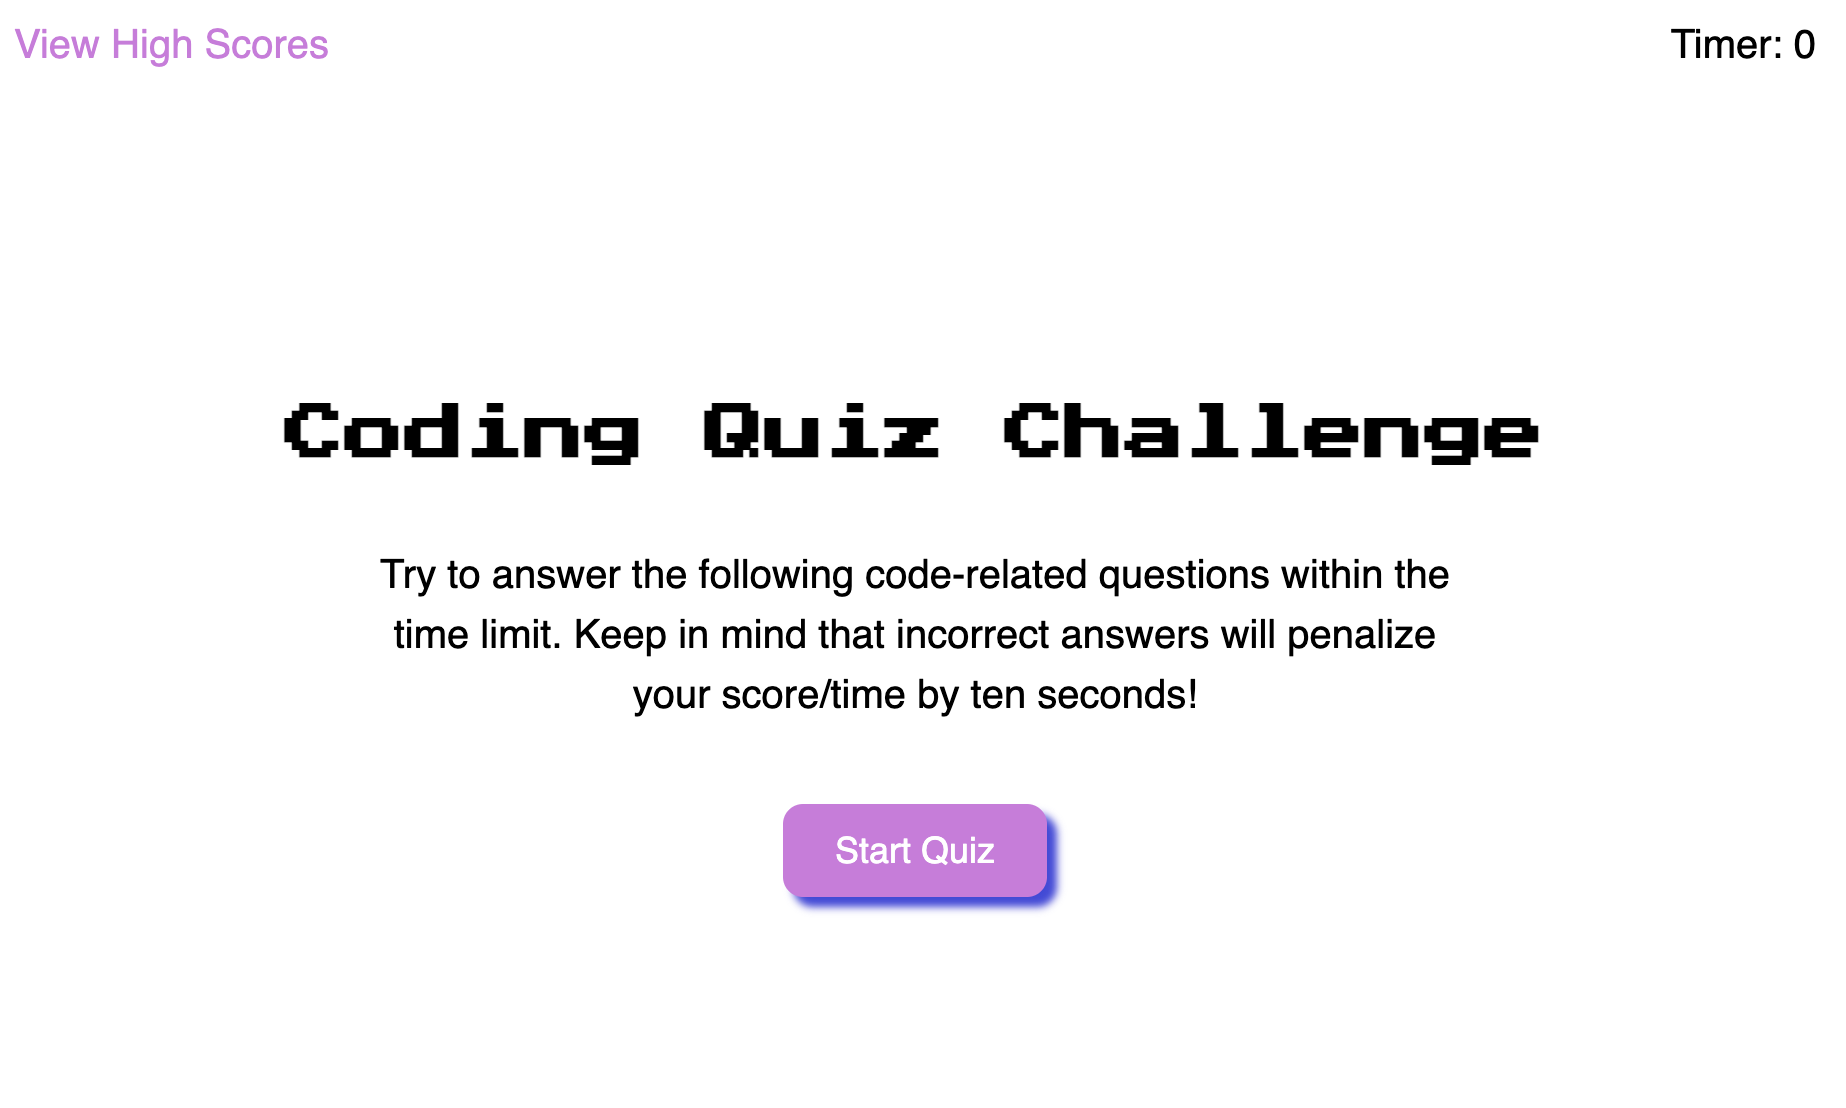
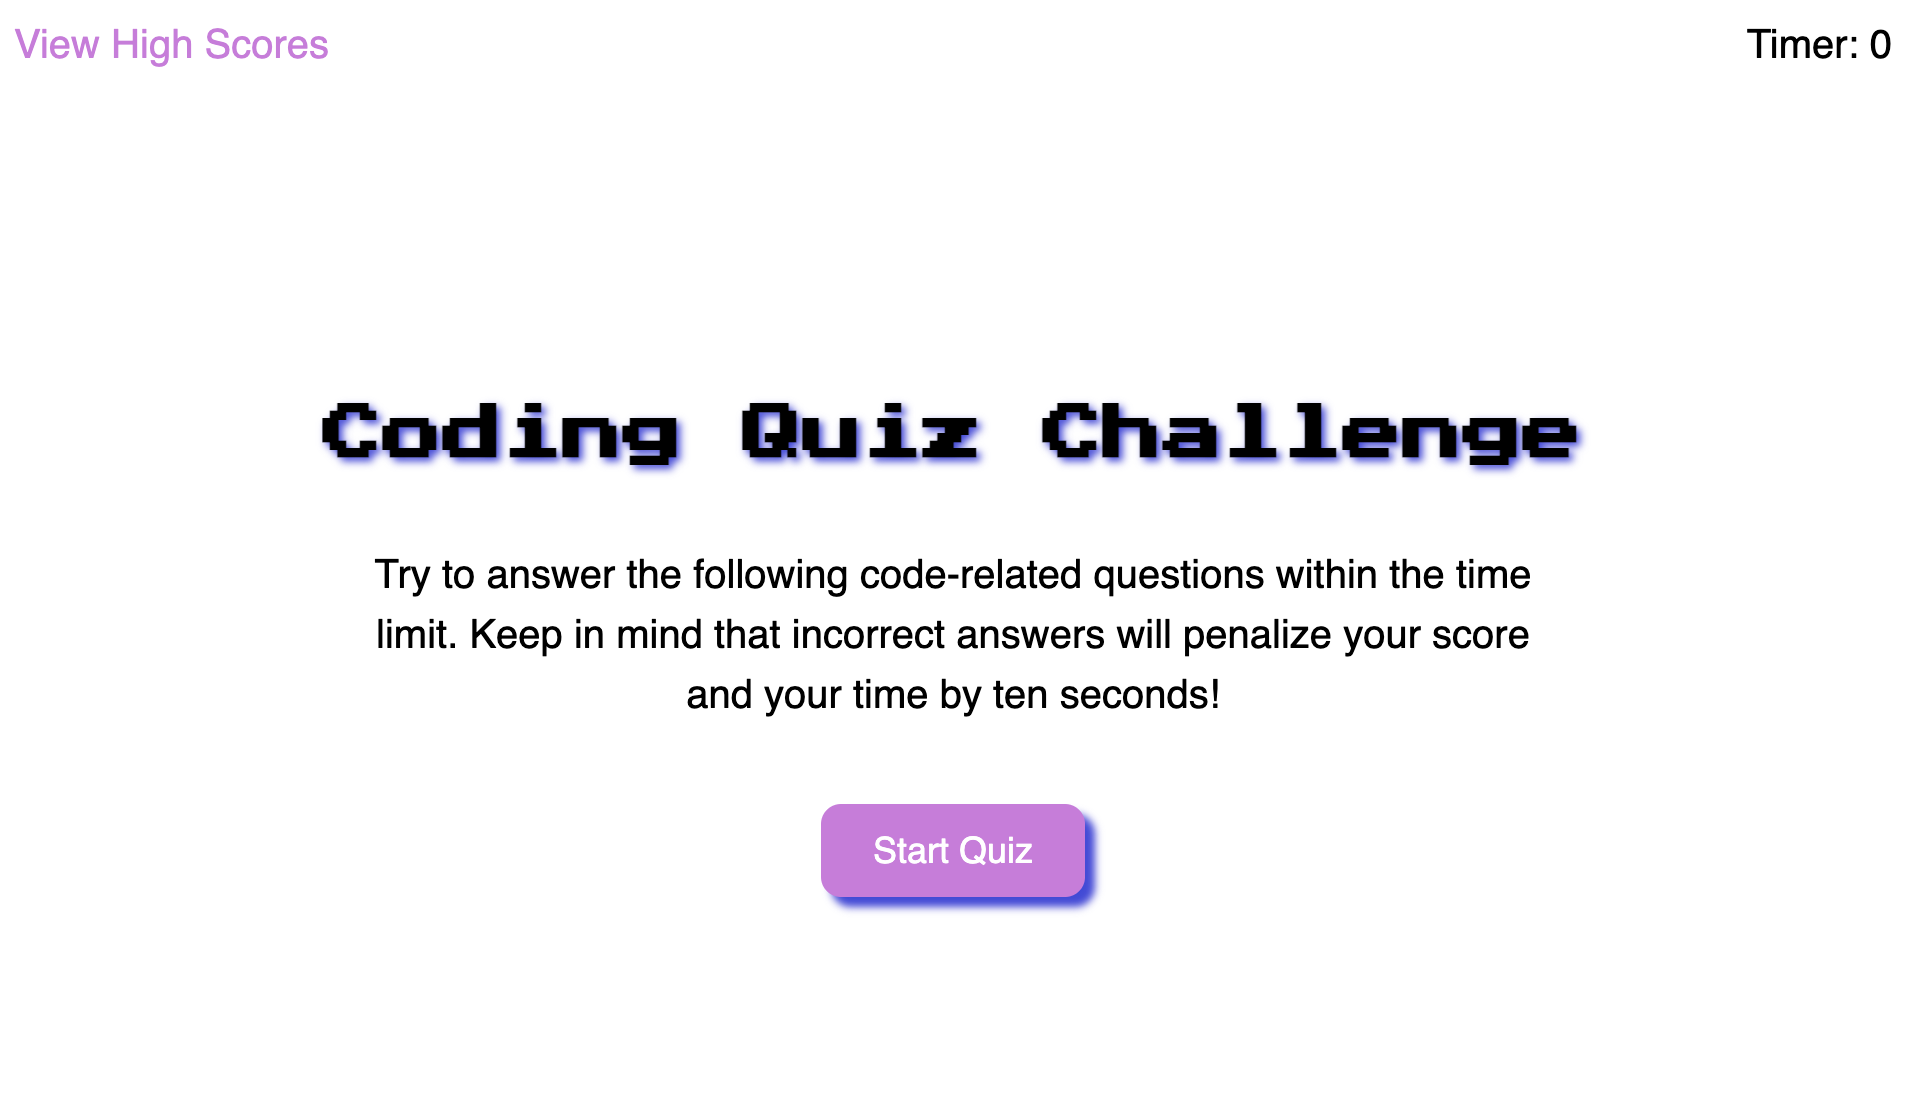
Updated css,  readme, and screenshot.

diff --git a/assets/js/script.js b/assets/js/script.js
@@ -31,7 +31,6 @@ startButton.addEventListener("click", function () {
     startTimer(); //this function below starts the timer
 });
 
-
 // put quiztime in global scope because we use it in multiple functions. in here, setInterval function changes time. howTimerWorks later clears the interval quiztime to zero and stops.
 var quiztime;
 // Start the timer in upper right corner after hitting start button
@@ -120,13 +119,14 @@ function addingAnswerButtons(answerPlaceholder) {
     answerButton.textContent = answerPlaceholder;
     answerButton.classList.add("multiple-choice-btn");
     answerLi.appendChild(answerButton);
-    answerButton.addEventListener("click", function () {  
+    answerButton.addEventListener("click", function () {
         checkAnswer(answerButton.textContent);
         // wait a sec so user can see checkAnswer result
         setTimeout(function () {
-            if (timeLeft >0) {
-            moveToNextQuestion(); }
-            else {gameOver();}
+            if (timeLeft > 0) {
+                moveToNextQuestion();
+            }
+            else { gameOver(); }
         }, 1000);
     });
 };
@@ -138,7 +138,7 @@ function checkAnswer(answerplaceholder) {
         correctVsIncorrect.textContent = "Correct! You gained 10 seconds";
         score++;
         timeLeft += 10;
-    // otherwise, if they don't match
+        // otherwise, if they don't match
     } else {
         correctVsIncorrect.textContent = "Incorrect! You lost 10 seconds!"
         timeLeft -= 10;
@@ -151,7 +151,7 @@ function moveToNextQuestion() {
     // if say theres 5 questions we've reached and that matches the length of 5 then display end page which shows results
     if (questionIndex === questionsList.length) {
         endPage();
-    // otherwise display the next question and whether they got it correct or incorrect which displays after checkanswer
+        // otherwise display the next question and whether they got it correct or incorrect which displays after checkanswer
     } else {
         displayNextQuestion(questionIndex, correctVsIncorrect);
     }
@@ -171,8 +171,8 @@ function endPage() {
     highScoresContainer.style.display = "none";
     endContainer.style.display = "block";
 
-    // I should add a percent of the length here instead of 2.
-    if (score > 2) { 
+    // Could use percent instead of 2
+    if (score > 2) {
         endResult.textContent = "Your score is " + score + " correct out of " + questionsList.length + "! You passed!";
     }
     else {
@@ -191,34 +191,34 @@ function gameOver() {
 // If we want to apply this function to multiple buttons throughout the quiz they will each need their own class and event listener. As they are in different divs and locations on the html.
 highScoresPageRestartButton.addEventListener("click", restartNow);
 function restartNow() {
-        startContainer.style.display = "none";
-        endContainer.style.display = "none";
-        highScoresContainer.style.display = "none";
-        questionContainer.style.display = "block";
-        correctVsIncorrect.style.display = "block";
-        // reset all our global variables
-        questionIndex = 0;
-        timeLeft = 35;
-        score = 0;
-        initialsInput.value="";
-        // display the questions and start the timer
-        displayNextQuestion(questionIndex, correctVsIncorrect);
-        startTimer();
-    }
+    startContainer.style.display = "none";
+    endContainer.style.display = "none";
+    highScoresContainer.style.display = "none";
+    questionContainer.style.display = "block";
+    correctVsIncorrect.style.display = "block";
+    // reset all our global variables
+    questionIndex = 0;
+    timeLeft = 35;
+    score = 0;
+    initialsInput.value = "";
+    // display the questions and start the timer
+    displayNextQuestion(questionIndex, correctVsIncorrect);
+    startTimer();
+}
 
 
 // added to both submit button and viewhighscores link
 viewHighScores.addEventListener("click", displayHighScores);
 function displayHighScores() {
-        startContainer.style.display = "none";
-        endContainer.style.display = "none";
-        questionContainer.style.display = "none";
-        highScoresContainer.style.display = "block";
-    };
+    startContainer.style.display = "none";
+    endContainer.style.display = "none";
+    questionContainer.style.display = "none";
+    highScoresContainer.style.display = "block";
+};
 
 
 // added to submit button eventlistener
-function appendHighScoresToHTML (arrayInitials, arrayScore) {
+function appendHighScoresToHTML(arrayInitials, arrayScore) {
     // Create score item li, and add class, which will house the initials + the score
     var initialsScoreLi = document.createElement("li");
     initialsScoreLi.classList.add("initialsscore-li");
@@ -230,60 +230,59 @@ function appendHighScoresToHTML (arrayInitials, arrayScore) {
     initialsScoreP.innerText = arrayInitials + " " + arrayScore;
     // if it does not equal nothing, append an item as we don't want empty items
     initialsScoreLi.appendChild(initialsScoreP); //attached p to li
-        //attach li to ul
+    //attach li to ul
     highScoresUlList.appendChild(initialsScoreLi);
 }
 
 function forLoopInitialsScore() {
     for (var i = 0; i < userAndScoreArray.length; i++) {
-    var arrayInitials = userAndScoreArray[i].initials;
-    var arrayScore = userAndScoreArray[i].score;
-    appendHighScoresToHTML(arrayInitials, arrayScore);
-}
+        var arrayInitials = userAndScoreArray[i].initials;
+        var arrayScore = userAndScoreArray[i].score;
+        appendHighScoresToHTML(arrayInitials, arrayScore);
+    }
 }
 
-
+// Start with an empty array and push initials and scores data
 var userAndScoreArray = [];
-function appendHighScoresToArray () {
+function appendHighScoresToArray() {
     var myObj = {
-        "initials" : initialsInput.value,    
-        "score" : score  
-      };
+        "initials": initialsInput.value,
+        "score": score
+    };
     userAndScoreArray.push(myObj);
 
 }
 
+// order from highest to lowest
+function orderHighScores(property) {
+    //json sort by property of object
+    return function (a, b) {
+        if (a[property] < b[property])
+            return 1;
+        else if (a[property] > b[property])
+            return -1;
 
-function orderHighScores (property) {
-// for loop all scores and order highest to lowest
-//https://developer.mozilla.org/en-US/docs/Web/JavaScript/Reference/Global_Objects/Array/sort
-//json sort by property of object
-return function(a,b){  
-    if(a[property] < b[property])  
-       return 1;  
-    else if(a[property] > b[property])  
-       return -1;  
-
-    return 0;  
- }  
+        return 0;
+    }
 }
 
+// when initials are submitted, go to high scores page and add score
 submitInitialsButton.addEventListener("click", appendAndDisplay);
-
-function appendAndDisplay () {
-    if (initialsInput.value !== "") { 
-    clearAllHighScores();
-    appendHighScoresToArray();
-    userAndScoreArray.sort(orderHighScores("score")); 
-    forLoopInitialsScore();
-    displayHighScores();
+function appendAndDisplay() {
+    if (initialsInput.value !== "") {
+        clearAllHighScores();
+        appendHighScoresToArray();
+        userAndScoreArray.sort(orderHighScores("score"));
+        forLoopInitialsScore();
+        displayHighScores();
+    }
 }
-}
 
+// cler high scores button and function
 clearHighScoresButton.addEventListener("click", clearAllHighScores);
 function clearAllHighScores() {
     document.getElementById("highscores-ullist").innerHTML = "";
 }
 
-// Improvements to consider changing:
-//is it possible to create a percent out of the questionsList.length for the endpage function to calculate less than 50% wrong fail, greater pass?
+// Improvements if needed one day:
+//create a percent out of the questionsList.length for the endpage function to calculate less than 50% wrong fail, greater pass, if number length changes in the future

diff --git a/assets/css/style.css b/assets/css/style.css
@@ -1,12 +1,11 @@
-/* Add variables for repeated color */
+/* Add universal variables for repeated color */
 :root {
     --pink: rgb(210, 118, 223);
     ;
     --darkPurple: #4444dd;
 }
 
-
-/* Moves navigation links a little down and inside so they aren't right at the edge of the page */
+/* Moves navigation links slightly down and inside so they aren't right at the edge of the page */
 nav ul {
     margin: 15px;
 }
@@ -175,7 +174,7 @@ div li {
     display: inline-block;
     font-size: 18px;
     filter: drop-shadow(5px 5px 2px var(--darkPurple));
-    margin-top: 150px;
+    margin-top: 90px;
     margin-right: 13px;
     cursor: pointer;
 }
@@ -191,7 +190,14 @@ div li {
     display: inline-block;
     font-size: 18px;
     filter: drop-shadow(5px 5px 2px var(--darkPurple));
-    margin-top: 150px;
+    margin-top: 90px;
     margin-left: 13px;
     cursor: pointer;
+}
+
+.initialsscore-p {
+    font-size: 25px;
+    font-weight: bold;
+    color: var(--darkPurple); 
+    line-height: 130%;
 }

diff --git a/index.html b/index.html
@@ -46,7 +46,7 @@
     <h2 class = "result"></h2>
   </div>
 
-  <!-- Last page, changes from game over if run out of time, or results -->
+  <!-- End of quiz page, changes from game over if run out of time, or results -->
   <div class="end-container">
     <h2 class="end-result"></h2>
     <h3 class="enter-initials-header"> Enter your initials: </h3>

diff --git a/README.md b/README.md
@@ -1,10 +1,10 @@
 # Code Quiz
 
 ## Website Description
-The website is of a coding quiz which gives multiple choice options as answers. It is initiated by a start button and a timed assessmenet of 35 seconds. If the user misses an an answer 10 seconds are subtracted from the time and if they get one correct answer then 10 seconds are added. They are shown whether they got an answer correct or not before moving to the next question. If they run out of time, they will see a "Game Over" message. Upon it being "Game Over," or completing the quiz, they are able to either restart the quiz to try again or view the high scores. 
+The website is of a coding quiz which gives multiple choice options as answers. It is initiated by a start button and a timed assessmenet of 35 seconds. If the user misses an an answer 10 seconds are subtracted from the time and if they get one correct answer then 10 seconds are added. They are shown whether they got an answer correct or not before moving to the next question. If they run out of time, they will see a "Game Over" end page message. If they make it in time they are given a score as an end page. Either way they are asked to submit their initials and upon clicking submit are brought to high scores page where they can then restart the quiz or clear the scores.
 
 ## Challenge Description
-The challenge required dynamically updated HTML via JavaScript and CSS styling. There was no starter code provided. Various divs are shown and hidden dependent on which section of the quiz the user is on and which button has been pressed. The questions and answers are not on the HTML but rather populated to be shown on the screen via a for-loop array. An event listener on the start button initiates the timer countdown function on the screen for the user to see while each question appears via appending the question container div and they make a multiple choice selection from li items in an unordered list. Event listener functions are also on the high scores and reset buttons. The timer stops and returns to zero if the user runs out of time or if the quiz is not currently running. Otherwise it uses an interval of one second to subtract down from 35.  The quiz will end with the result div; this is either a "Game Over" screen if they run out of time or results of how many questions they got correct. The restart quiz function resets most global variables for time, score, and questions index. The high scores also used a for-loop array to check which is the highest and order them as such. 
+The challenge required dynamically updated HTML via JavaScript and CSS styling. There was no starter code provided. Various divs are shown and hidden dependent on which section of the quiz the user is on and which button has been pressed. The questions and answers are not on the HTML but rather populated to be shown on the screen via an array. An event listener on the start button initiates the timer countdown function on the screen for the user to see while each question appears via appending the question container div and they make a multiple choice selection from li items in an unordered list. Event listener functions are also on the high scores, clear scores, and restart buttons. The timer stops and returns to zero if the user runs out of time or if the quiz is not currently running. Otherwise it uses an interval of one second to subtract down from 35.  The quiz will end with the result div; this is either a "Game Over" screen if they run out of time or results of how many questions they got correct. The restart quiz function resets most global variables for time, score, and questions index. The high scores also used an array to check which is the highest and order them as such. At the end page, they are given a submit button for initials with an event listener that then shows highscores in proper order.
 
 ## User Story
 
@@ -47,9 +47,9 @@ The CSS document includes:
 
 The JavaScript document includes:
 * variables, query selectors, objects, event listeners, and functions
-* start/restart/multiple choice/high scores button event listener on click
-* for-loop over questions array 
-* for-loop over high scores
+* start/restart/multiple choice/high scores/clear scores button event listeners on click
+* Questions array 
+* High scores array
 * intervals, countdown timers, functions with parameters, functions with appended lists and classes
 
 ## Languages
